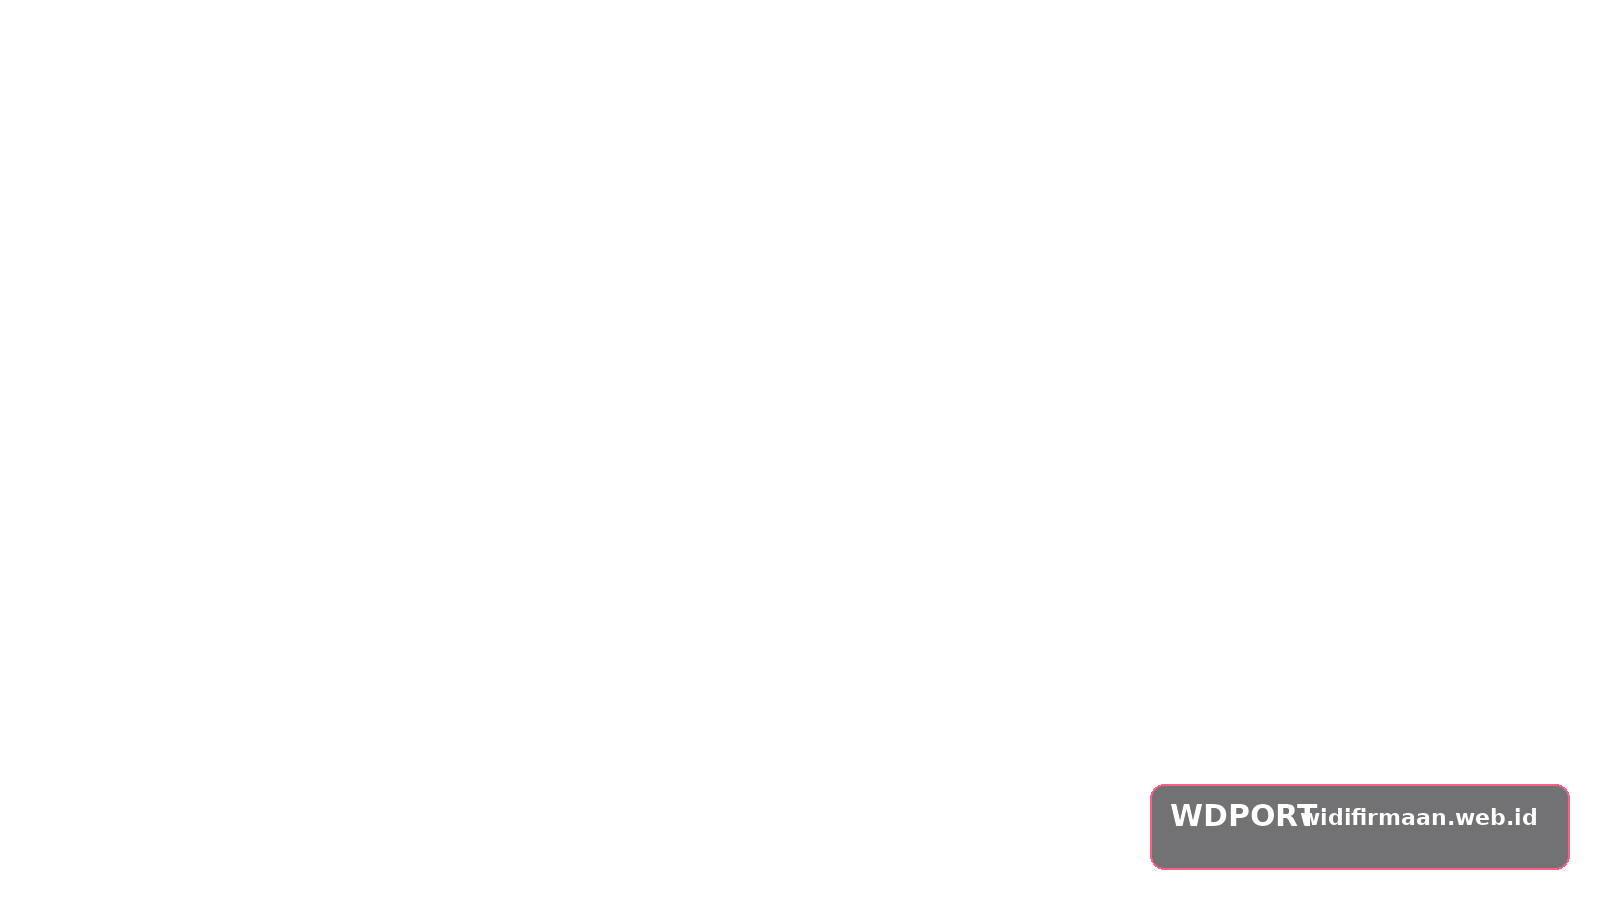
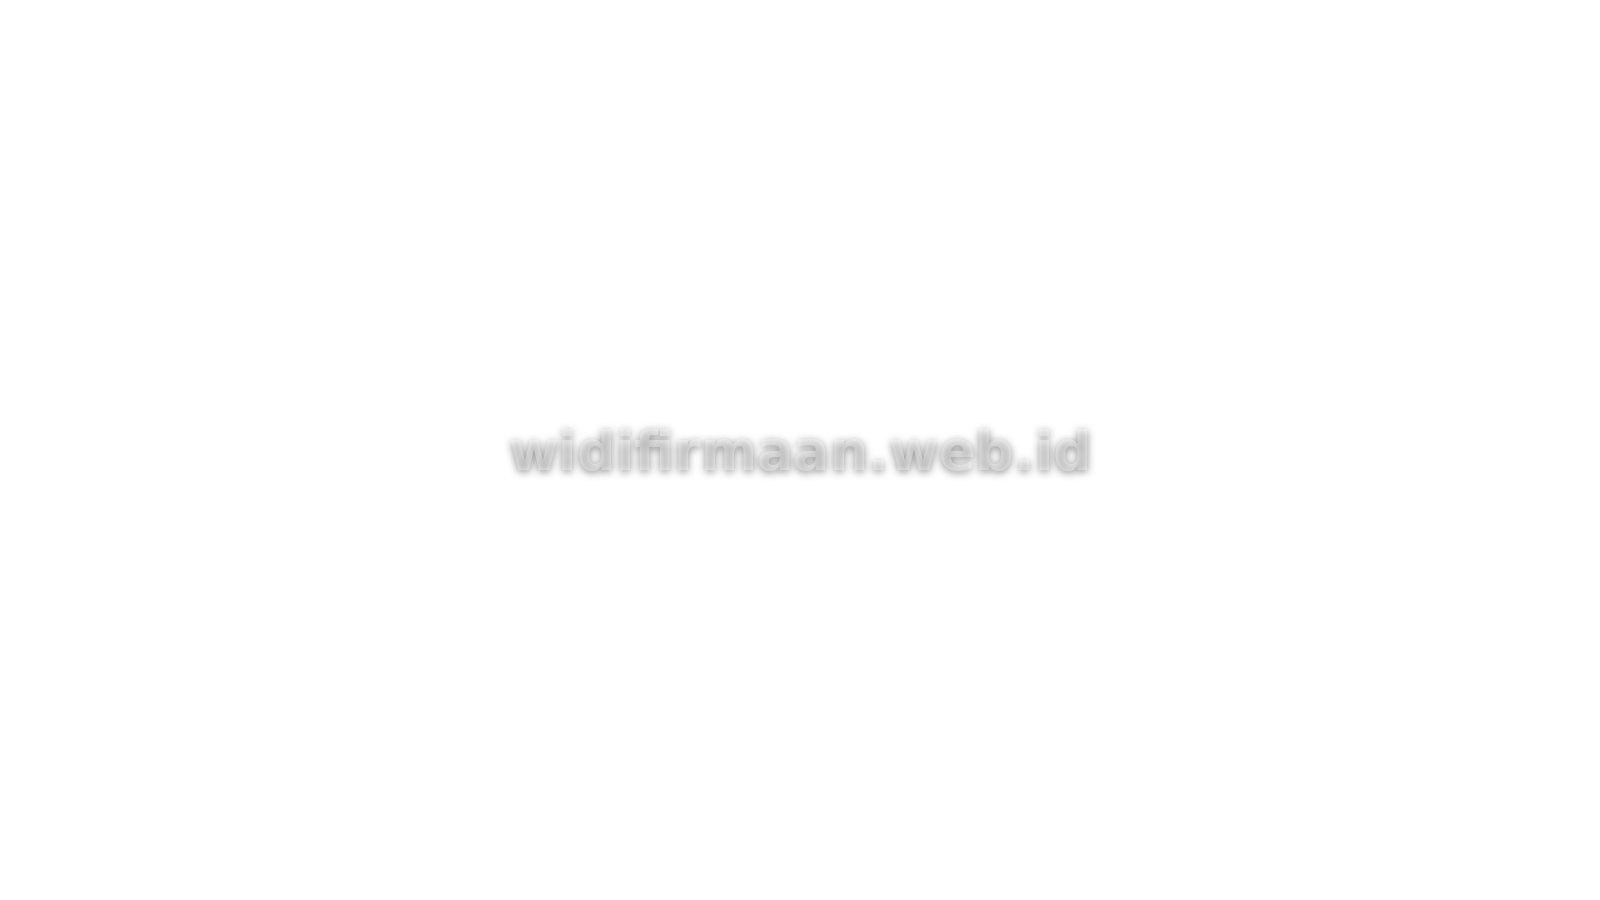
feat(news): update watermark, ArtCraft showcase image, and researched article

Changed region(s): [[0.7188, 0.8711, 1.0, 0.9644], [0.3125, 0.4667, 0.6875, 0.5289]]

diff --git a/news/news.js b/news/news.js
@@ -132,8 +132,8 @@
         container.querySelectorAll('img').forEach((img) => {
             const src = img.getAttribute('src') || '';
             if (src.includes('/news/assets/') && !img.getAttribute('width')) {
-                img.setAttribute('width', '1376');
-                img.setAttribute('height', '768');
+                img.setAttribute('width', '1600');
+                img.setAttribute('height', '900');
             }
         });
     }
